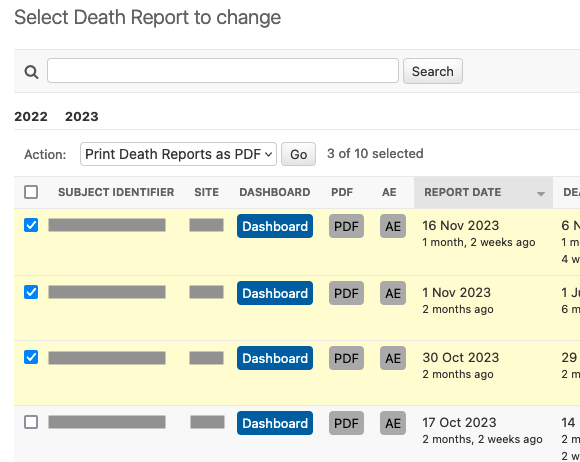
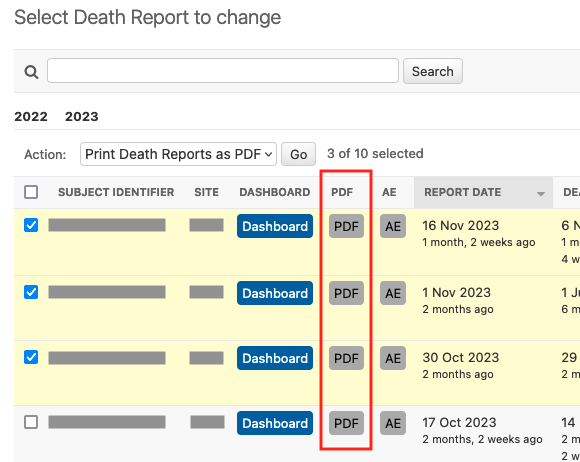
update README

Changed region(s): [[0.5276, 0.3636, 0.6517, 1.0]]

diff --git a/README.rst b/README.rst
@@ -94,7 +94,7 @@ Add to ``settings``:
         ...]
 
 
-Your changelist will look something like this:
+Your changelist have the column "PDF" like this:
 
 |changelist|
 
@@ -143,10 +143,10 @@ For example:
 
 
 
-.. |intermediate_page| image:: /docs/intermediate_page.png
+.. |intermediate_page| image:: /docs/images/intermediate_page.png
    :alt: Intermediate page
 
-.. |changelist| image:: /docs/changelist.png
+.. |changelist| image:: /docs/images/changelist.png
    :alt: ChangeList
 
 .. |pypi| image:: https://img.shields.io/pypi/v/edc-pdf-reports.svg
